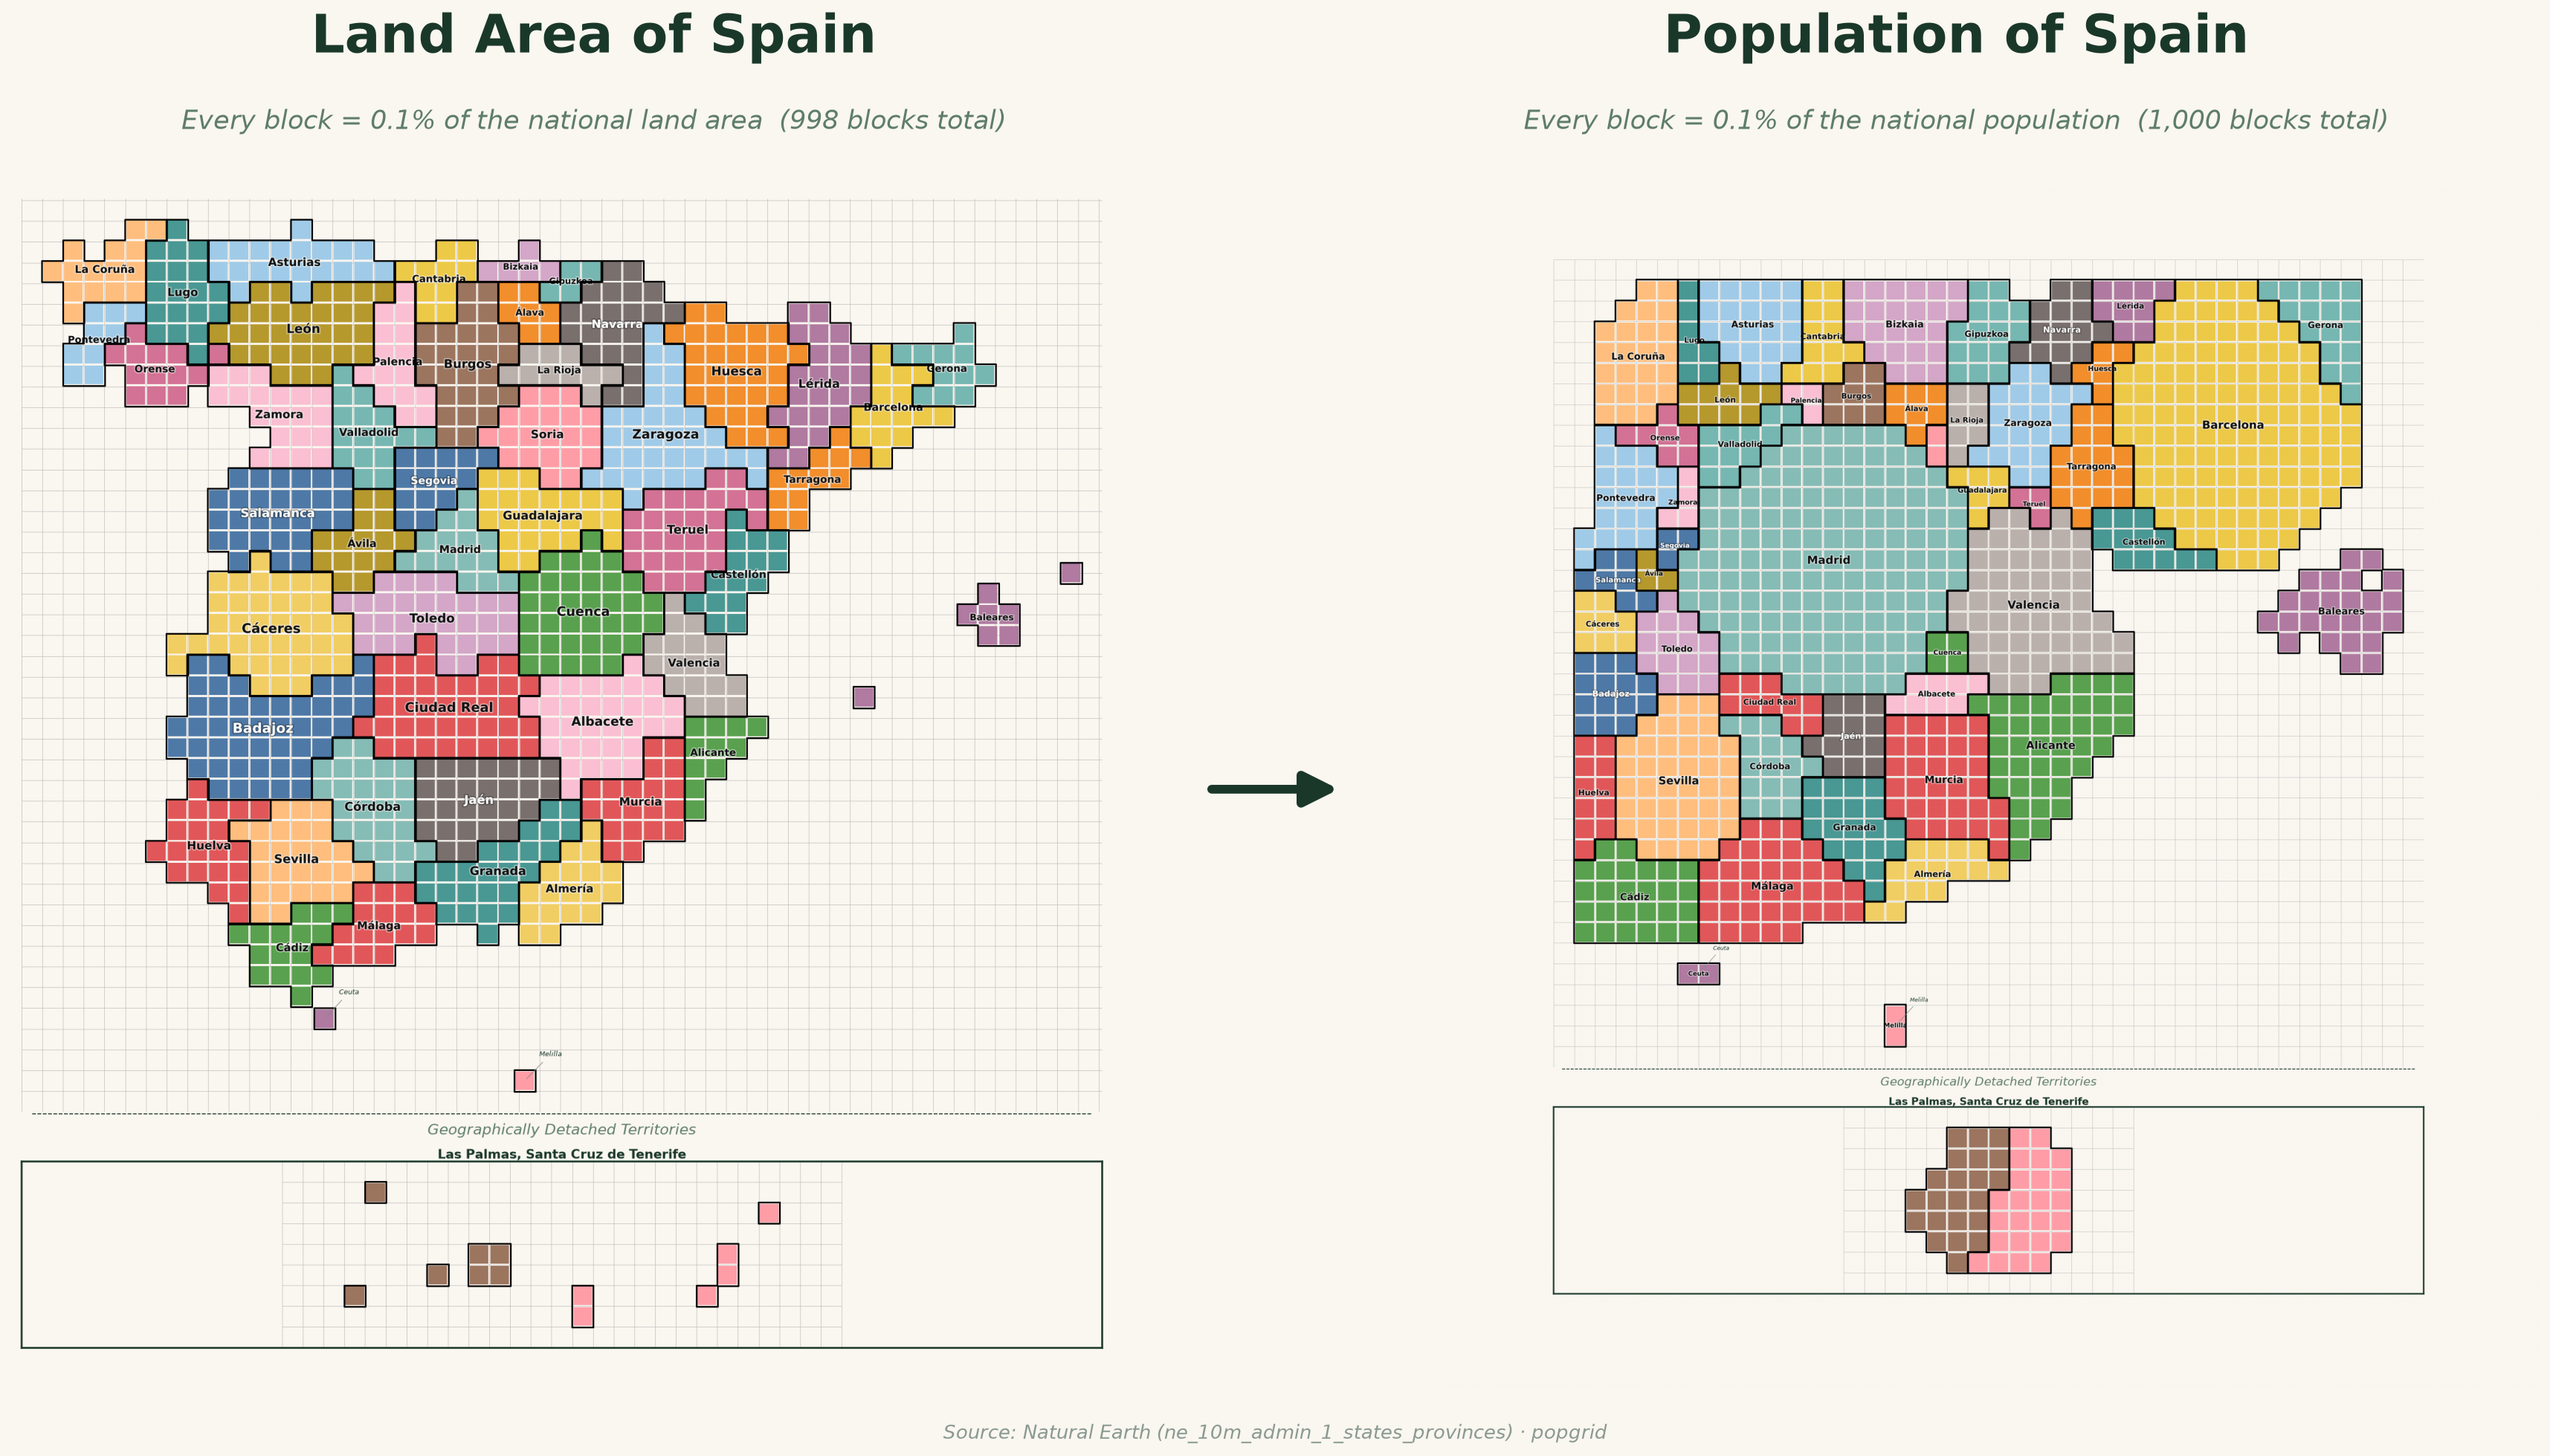
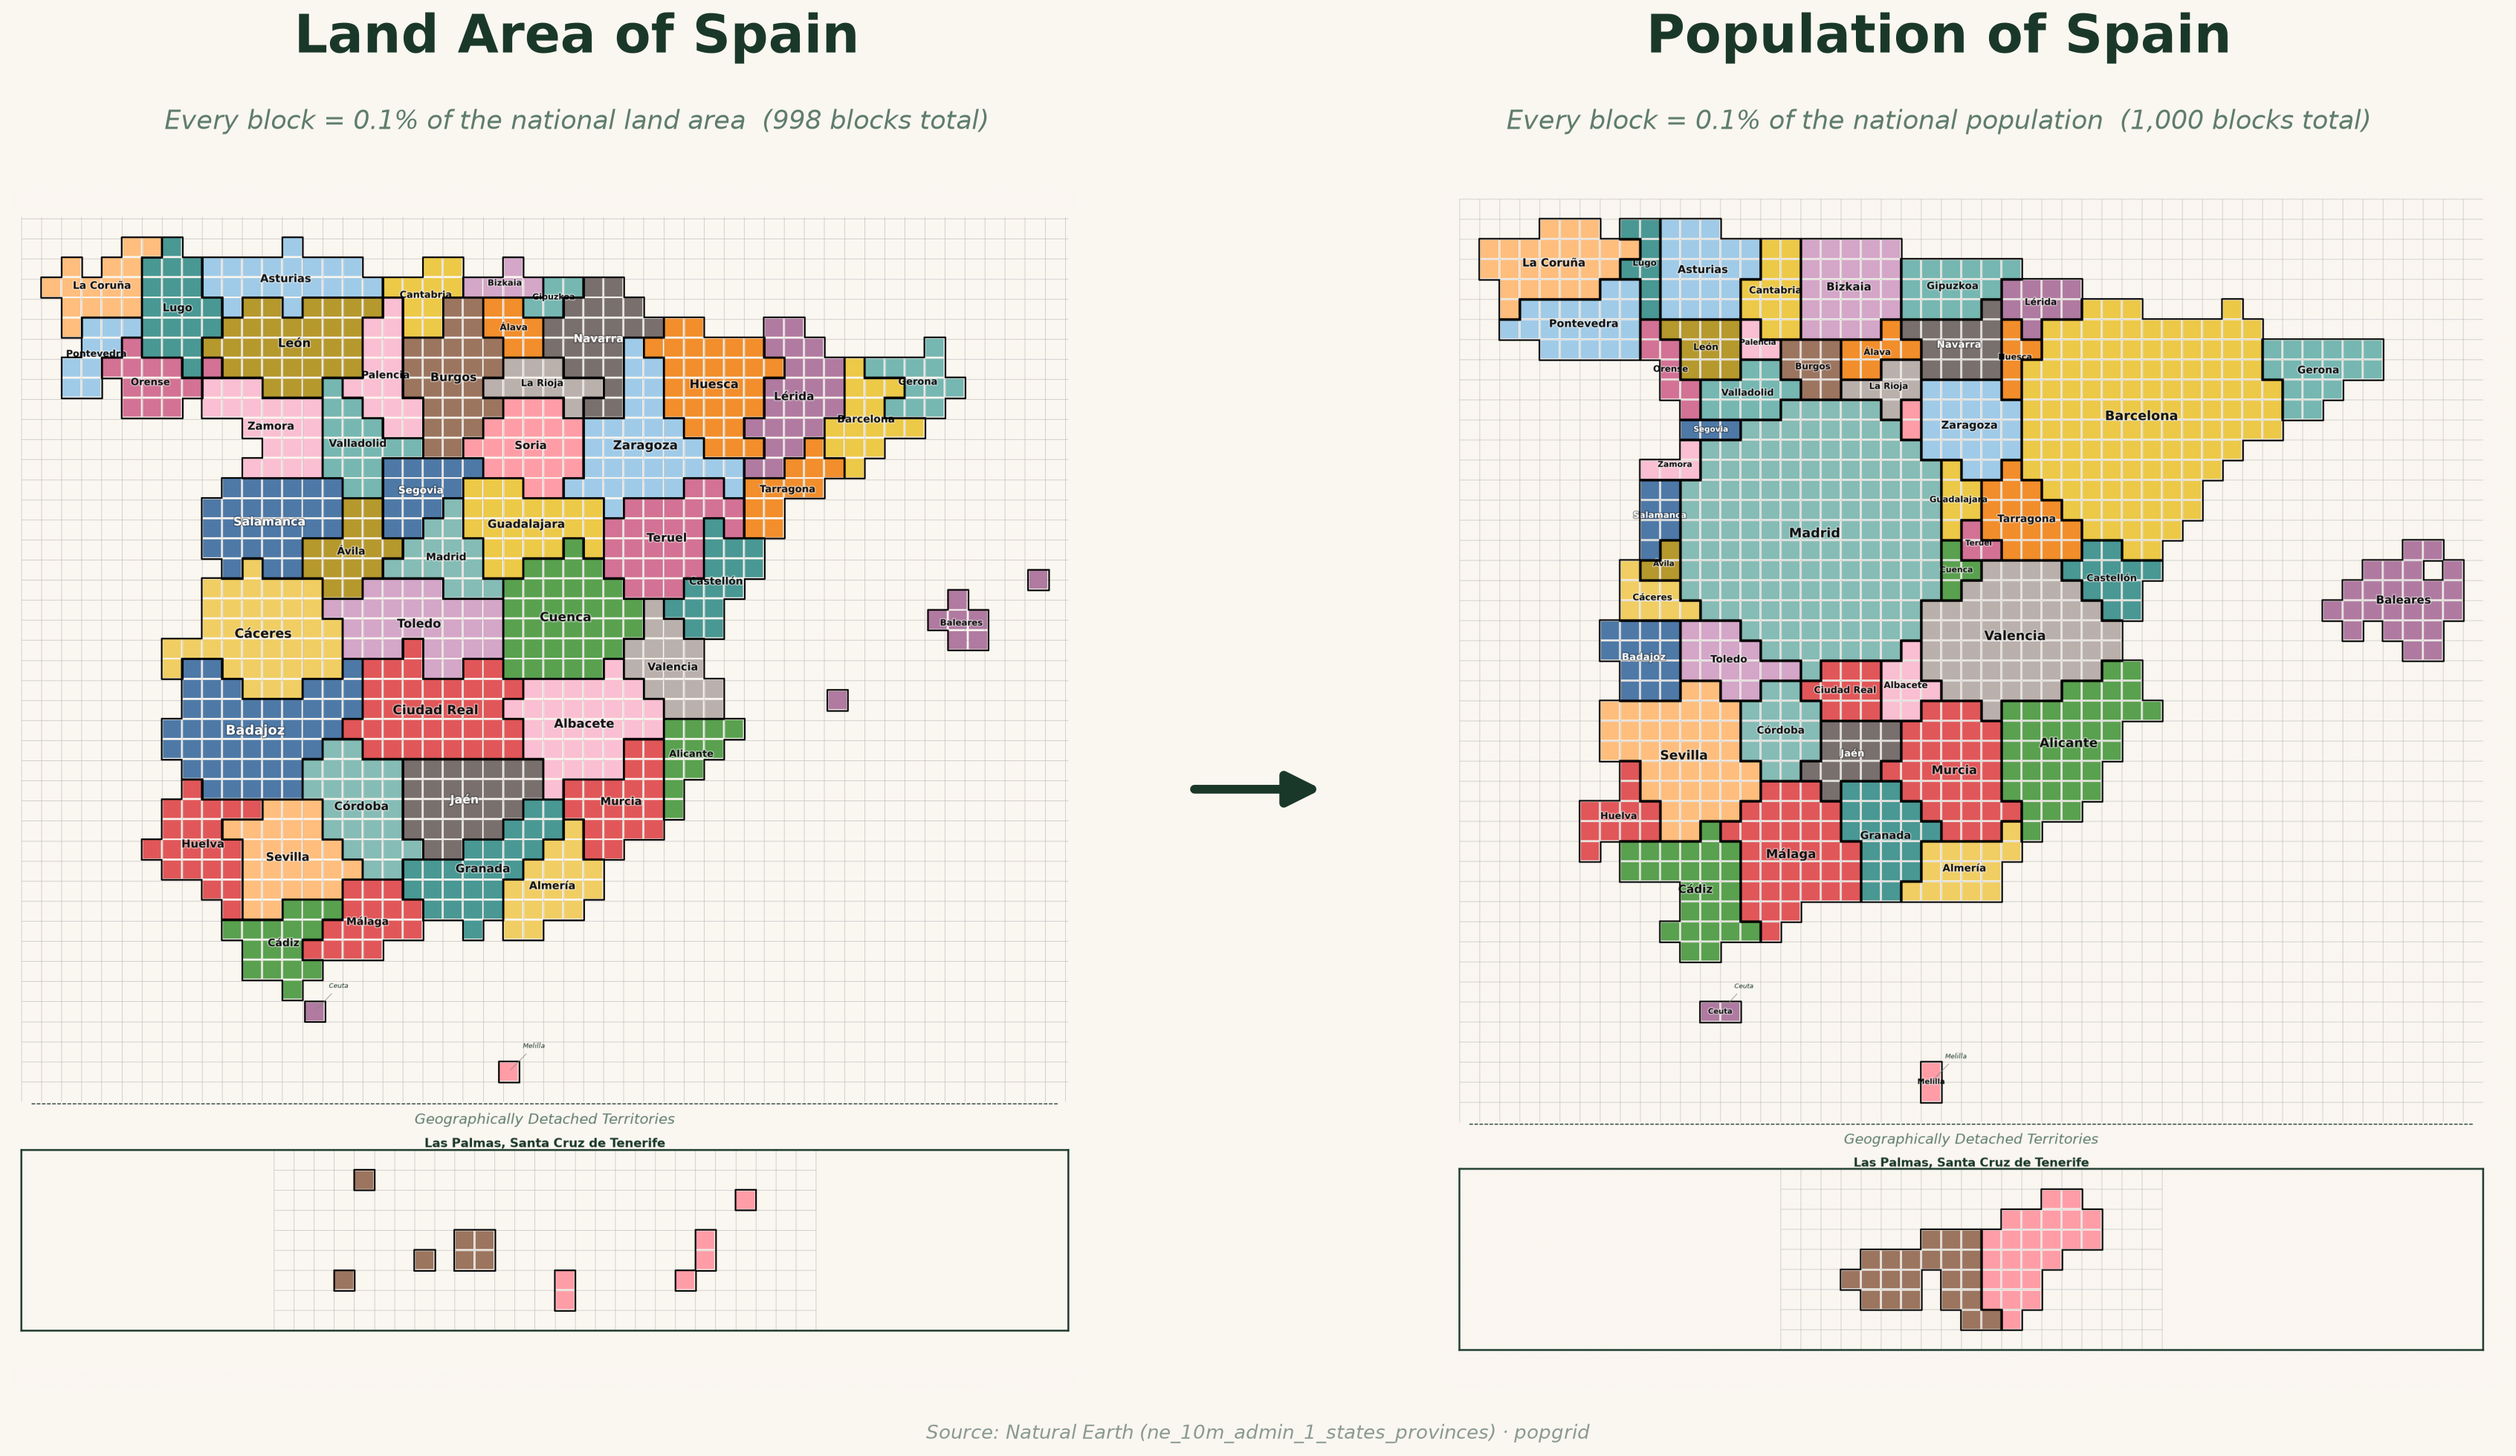
Compact layout: tile Spain's real outline instead of the deformed one
The deformed cartogram silhouette made the compact map a rounded blob.
compact_assign now gets the real (undeformed) outline and region positions,
so the population map keeps Spain's recognisable shape. Outline smoothing
is off by default.

diff --git a/popgrid/cartogram.py b/popgrid/cartogram.py
@@ -407,7 +407,7 @@ def compact_assign(
     cell_size: float,
     landmass_id: int,
     lloyd_iterations: int = 4,
-    smooth_cells: float = 2.5,
+    smooth_cells: float = 0.0,
 ) -> gpd.GeoDataFrame:
     """
     Lay a landmass out as compact population blobs instead of a squeezed
@@ -415,14 +415,14 @@ def compact_assign(
 
     A border-preserving cartogram has to inflate a dense region by pushing its
     neighbours aside, so a dominant city-province can become a disc surrounded
-    by one-cell rings.  This alternative keeps the same overall silhouette and
-    region positions but drops the literal borders: it tiles the *deformed*
-    outline with exactly ``quotas[region]`` cells per region and arranges them
+    by one-cell rings.  This alternative keeps the country's real silhouette
+    and region positions but drops the literal borders: it tiles the outline
+    it is given (PopGrid passes the real, undeformed one) with exactly ``quotas[region]`` cells per region and arranges them
     as a discrete power diagram, which yields compact, convex-ish blobs.
 
     Method
     ------
-    1. **Silhouette cells.**  Candidate centres tile the deformed outline's
+    1. **Silhouette cells.**  Candidate centres tile the outline's
        bounding box on the global lattice (same spacing and phase as
        :func:`popgrid.grid.generate_cells`).  Each candidate gets a signed
        distance to the outline boundary: positive inside (depth), negative
@@ -432,7 +432,7 @@ def compact_assign(
        outline (an archipelago) or a tiny landmass, cells are instead grown
        contiguously from the deepest candidate, giving each region one compact
        footprint rather than a scatter of one-cell islets.
-    2. **Seeds.**  Each region's seed is its deformed polygon's
+    2. **Seeds.**  Each region's seed is its polygon's
        ``representative_point()`` — not its centroid, which for a ring-shaped
        region falls inside the hole it surrounds.
     3. **Assignment.**  Cells are assigned to regions with exact capacities
@@ -467,7 +467,9 @@ def compact_assign(
         Radius, in cells, of a morphological opening applied to the outline
         before tiling.  The deformed outline has thin necks where squeezed
         neighbours were pushed aside; whichever region fills a neck becomes a
-        one-cell strip.  Opening removes them.  Default 2.5; 0 disables.
+        one-cell strip.  Opening removes them, at the cost of rounding the
+        coastline.  Default 0 (off): PopGrid passes the real outline, which
+        has no such necks.
 
     Returns
     -------
@@ -544,7 +546,7 @@ def compact_assign(
     cell_x = cx_all[order]
     cell_y = cy_all[order]
 
-    # ── 2. Seeds: representative points of the deformed regions ─────────────
+    # ── 2. Seeds: representative points of the regions ──────────────────────
     reps = shaped.geometry.representative_point()
     seed_x = reps.x.to_numpy(dtype=float)
     seed_y = reps.y.to_numpy(dtype=float)

diff --git a/popgrid/core.py b/popgrid/core.py
@@ -908,8 +908,8 @@ class PopGrid(AreaGrid):
         5. Fit every region to its exact quota (trim ragged edges / grow
            into concavities) so the totals are precise.
 
-        With ``layout='compact'``, steps 4–5 are replaced: the deformed outline
-        and region positions from steps 2–3 are re-tiled into compact
+        With ``layout='compact'``, step 3's deformation is skipped and steps
+        4–5 are replaced: the real outline and region positions are tiled into compact
         population blobs with exact quotas (see
         :func:`popgrid.cartogram.compact_assign`), so no quota/topology fitting
         is needed afterwards.
@@ -1095,7 +1095,10 @@ class PopGrid(AreaGrid):
             target_area = lm_quota * cell_area * OVERSIZE
             shaped = scale_to_area(regions_sub, target_area)
 
-            if len(shaped) > 1:
+            # The compact layout tiles the real (undeformed) outline, so the
+            # country keeps its recognisable shape; only the cartogram layout
+            # deforms regions toward population.
+            if len(shaped) > 1 and self.layout != "compact":
                 sub_pops = {
                     str(n): max(float(pop_weights.get(str(n), 1)), 1.0)
                     for n in shaped["region_name"]

diff --git a/CHANGELOG.md b/CHANGELOG.md
@@ -12,7 +12,7 @@ All notable changes to popgrid are documented here.
   does not need ArcGIS.
 
 ### Added
-- **`PopGrid(layout="compact")`**: tiles the cartogram outline with compact blobs, one per
+- **`PopGrid(layout="compact")`**: tiles the country's real outline with compact blobs, one per
   region, via an exact-capacity optimal assignment. Drops literal shared borders, but
   avoids the one-cell rings a border-preserving cartogram forces around a dominant region
   (Madrid among Spain's provinces). Default for Spain; `--layout` flag in `generate.py`.
